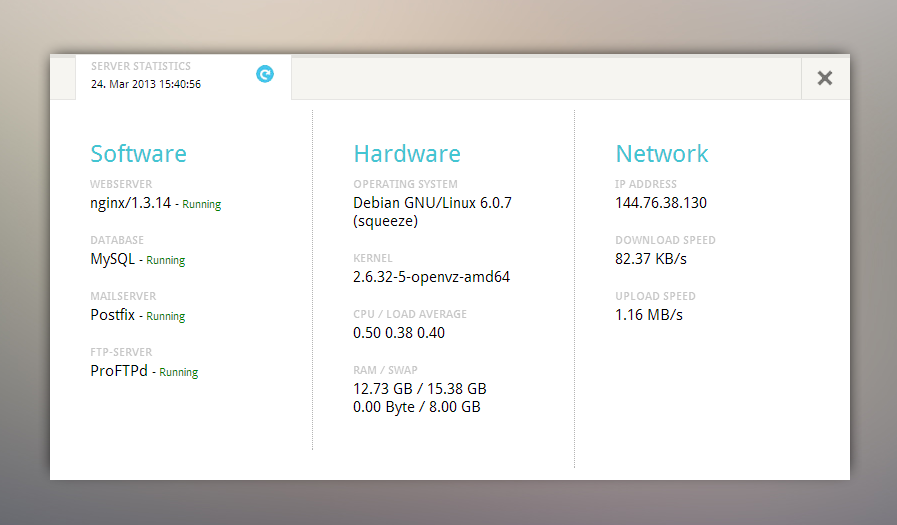
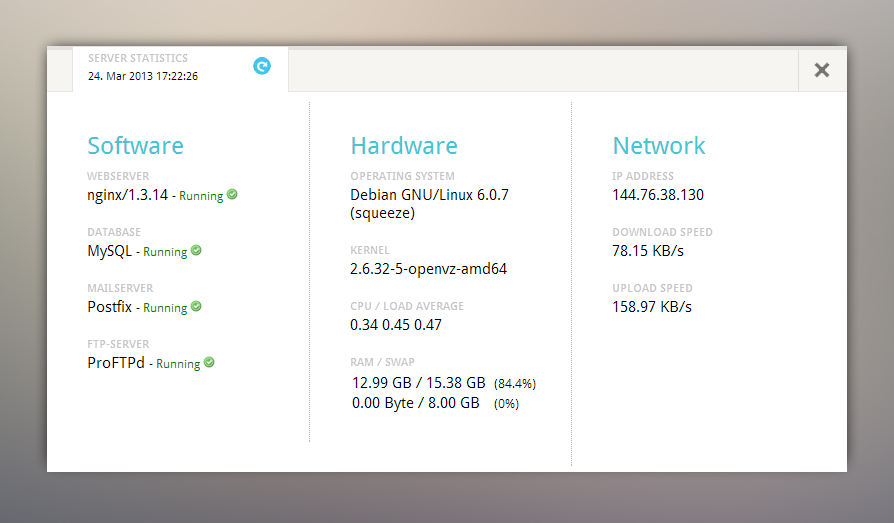
More functionality, small improvements
Added status icons, added percentage to RAM/SWAP usage, font is now
local to be available offline in the local network, updated screenshot,
small improvements

diff --git a/index.html b/index.html
@@ -4,7 +4,6 @@
     	<title>Server Dashboard</title>
         <meta name="robots" content="all">
         <meta http-equiv="Content-Type" content="text/html; charset=utf-8" >
-        <link rel="stylesheet" href="http://fonts.googleapis.com/css?family=Droid+Sans:400,700" type="text/css" />
         <link rel="stylesheet" href="assets/style.css" type="text/css" />
         <script type="text/javascript" src="assets/js/jquery-1.9.1.min.js"></script>
         <script type="text/javascript" src="assets/js/script.js"></script>
@@ -26,45 +25,81 @@
             	<div id="left">
                 	<h1>Software</h1>
 					<div class="head">Webserver</div>
-					<div class="text"><span id="SW_Web"></span></div>
+					<div class="text">
+						<span id="SW_Web"></span>
+					</div>
+
 					<div class="head">Database</div>
-					<div class="text"><span id="SW_DB"></span></div>
+					<div class="text">
+						<span id="SW_DB"></span>
+					</div>
+
 					<div class="head">Mailserver</div>
-					<div class="text"><span id="SW_MAIL"></span></div>
+					<div class="text">
+						<span id="SW_MAIL"></span>
+					</div>
+
 					<div class="head">FTP-Server</div>
-					<div class="text"><span id="SW_FTP"></span></div>
+					<div class="text">
+						<span id="SW_FTP"></span>
+					</div>
 	            </div>
+
                 <div id="middle">
                 	<h1>Hardware</h1>
 					<div class="head">Operating System</div>
 					<div class="text"><span id="HW_OS"></span></div>
+
 					<div class="head">Kernel</div>
 					<div class="text"><span id="HW_KERNEL"></span></div>
+
 					<div class="head">CPU / Load average</div>
 					<div class="text"><span id="HW_CPU"></span></div>
+
 					<div class="head">RAM / SWAP</div>
 					<div class="text">
 						<span id="HW_RAM_SWAP"></span>
-						<span id="HW_RAM">
-							<span id="HW_RAM_USED"></span>
-							<span id="HW_RAM_AVAIL"></span>
-						</span>
-						<br />
-						<span id="HW_SWAP">
-							<span id="HW_SWAP_USED"></span>
-							<span id="HW_SWAP_AVAIL"></span>
-						</span>
+						<table border="0" width="190px">
+						<tr>
+							<td>
+								<span id="HW_RAM">
+									<span id="HW_RAM_USED"></span>
+									<span id="HW_RAM_AVAIL"></span>
+								</span>
+							</td>
+							<td><span id="HW_RAM_PRNT" class="smallText"></span></td>
+						</tr>
+						<tr>
+							<td>
+								<span id="HW_SWAP">
+									<span id="HW_SWAP_USED"></span>
+									<span id="HW_SWAP_AVAIL"></span>
+								</span>
+							</td>
+							<td><span id="HW_SWAP_PRNT" class="smallText"></span></td>
+						</tr>
+						</table>
 					</div>
 	            </div>
+
                 <div id="right">
                 	<h1>Network</h1>
 					<div class="head">IP Address</div>
-					<div class="text"><span id="NET_IP"></span></div>
+					<div class="text">
+						<span id="NET_IP"></span>
+					</div>
+
 					<div class="head">Download Speed</div>
-					<div class="text"><span id="NET_DOWN"></span></div>
+					<div class="text">
+						<span id="NET_DOWN"></span>
+					</div>
+
 					<div class="head">Upload Speed</div>
-					<div class="text"><span id="NET_UP"></span></div>
+					<div class="text">
+						<span id="NET_UP"></span>
+					</div>
 	            </div>
+
                 <div class="clear"></div>
             </div>
         </div>

diff --git a/assets/style.css b/assets/style.css
@@ -1,3 +1,17 @@
+@font-face {
+  font-family: 'Droid Sans';
+  font-style: normal;
+  font-weight: 400;
+  src: local('Droid Sans'), local('DroidSans'), url(fonts/droidsans_v3_400.woff) format('woff');
+}
+
+@font-face {
+  font-family: 'Droid Sans';
+  font-style: normal;
+  font-weight: 700;
+  src: local('Droid Sans Bold'), local('DroidSans-Bold'), url(fonts/droidsans_v3_700.woff) format('woff');
+}
+
 * { margin:0px; padding:0px; }
 body { background:url(img/bg.jpg) bottom center fixed; font-family:'Droid Sans',sans-serif; }
 .clear { clear:both; }
@@ -5,7 +19,7 @@ body { background:url(img/bg.jpg) bottom center fixed; font-family:'Droid Sans',
 .container { width:800px; height:420px; background:#f6f5f1; position:fixed; top:50%; margin-top:-200px; left:50%; margin-left:-400px; box-shadow:0px 0px 24px -3px #000; }
 .container #close { background:url(img/close.png) no-repeat 15px 12px; height:41px; border-left:1px solid rgba(0,0,0,0.1); width:31px; position:absolute; right:17px; cursor:pointer; }
 .container #greyline { width:800px; background:#e3e2de; height:4px; }
-.container .head { text-transform:uppercase; opacity:0.22; font-weight:700; font-size:11px; padding-bottom:3px; }
+.container .head { text-transform:uppercase; opacity:0.23; font-weight:700; font-size:11px; padding-bottom:3px; background:#fff; background-color: rgba(255,255,255,0.22); }
 .container .text { font-size:15px; padding-bottom:22px; }
 .container .loading { opacity:0.50; font-size:14px; }
 .container li { margin-left:25px; list-style:none; float:left; border-left:1px solid #e6e5e3; border-right:1px solid #e6e5e3; height:40px; background:#fff; font-size:13px; padding-left:15px; margin-top:-4px; width:200px; padding-top:5px; position:relative; z-index:5; top:1px; }
@@ -14,6 +28,8 @@ body { background:url(img/bg.jpg) bottom center fixed; font-family:'Droid Sans',
 .container .content #left, .container .content #middle, .container .content #right { padding:30px; padding-left:40px; float:left; width:191.66px; border-right:1px dotted rgba(0,0,0,0.3); margin-top:10px; min-height:280px; }
 .container .content #right { border:0px; }
 .container .content h1 { color:#43c5d2; font-weight:normal; padding-bottom: 10px; }
+.container .content .statusImg { border:0; height:12px; width:12px; opacity:1;  }
+.container .content .smallText { font-size:12px;  }
 
 .footer { position:fixed; bottom:10px; right:10px; font-size:11px; }
 .footer a { color:#000; text-decoration:none; }

diff --git a/assets/js/script.js b/assets/js/script.js
@@ -9,7 +9,7 @@ function InitLoad() {
 
 function LoadingScreen() {
 	var fields = new Array("latestData", "SW_Web", "SW_DB", "SW_MAIL", "SW_FTP", "HW_OS", "HW_KERNEL", "HW_CPU", "HW_RAM_SWAP", "NET_IP", "NET_DOWN", "NET_UP");
-	var empty = new Array("HW_RAM_USED", "HW_RAM_AVAIL", "HW_SWAP_USED", "HW_SWAP_AVAIL");
+	var empty = new Array("HW_RAM_USED", "HW_RAM_AVAIL", "HW_RAM_PRNT", "HW_SWAP_USED", "HW_SWAP_AVAIL", "HW_SWAP_PRNT");
 	$.each(empty, function(index, value) {
 		$("#" + value).html('');
 	});
@@ -30,20 +30,24 @@ function LoadData() {
 					$("#HW_RAM_SWAP").html('');
 				 }else if(key == "HW_SWAP_USED") {
 					val = val + " / ";
+				 }else if(key == "HW_RAM_PRNT") {
+					val = "(" + val + "%)";
+				 }else if(key == "HW_SWAP_PRNT") {
+					val = "(" + val + "%)";
 				 }else if(key == "TIMESTAMP") {
 					$("#latestData").html(UnixTS(val));
 				}
 				if(val.toString().substr(-2) == "R0") {
-					val = val.replace('R0', '<span style="font-size:12px;">- <span style="color:red; font-size:11px;">Not running</span></span>');
+					val = val.replace('R0', '<span style="font-size:12px;">- <span style="color:red;" class="smallText">Not running</span> <img src="assets/img/error.png" class="statusImg"></span>');
 				 }else if(val.toString().substr(-2) == "R1") {
-					val = val.replace('R1', '<span style="font-size:12px;">- <span style="color:green; font-size:11px;">Running</span></span>');
+					val = val.replace('R1', '<span style="font-size:12px;">- <span style="color:green;" class="smallText">Running</span> <img src="assets/img/okay.png" class="statusImg"></span>');
 				}
 				$("#" + key).html(val);
 			});
 		}
 	});
 
-	loadSingleData("NetSpeedUp", "NET_UP");
+	loadSingleData("NetSpeedUp",   "NET_UP");
 	loadSingleData("NetSpeedDown", "NET_DOWN");
 }
 

diff --git a/assets/getStatus.php b/assets/getStatus.php
@@ -35,7 +35,6 @@ if((filemtime("cache_".$get.".txt") + $cachetime) > time() && $flag) {
 
 }else{
 	// Save memInfo output to variable
-	$memInfo = getMemInfo();
 	$time = time();
 
 	if($get == "NetSpeedUp") {
@@ -45,6 +44,8 @@ if((filemtime("cache_".$get.".txt") + $cachetime) > time() && $flag) {
 		$data["value"]      = getSpeed("rx");
 
 	} else if($get == "all") {
+
+		$memInfo = getMemInfo();
 
 		$data["SW_Web"]	       = $_SERVER["SERVER_SOFTWARE"]." ".CheckRunningProcess("nginx");
 		$data["SW_DB"]         = "MySQL ".CheckRunningProcess("mysqld");
@@ -57,8 +58,11 @@ if((filemtime("cache_".$get.".txt") + $cachetime) > time() && $flag) {
 
 		$data["HW_RAM_USED"]   = getSize($memInfo["MemTotal"] - $memInfo["MemFree"]);
 		$data["HW_RAM_AVAIL"]  = getSize($memInfo["MemTotal"]);
+		$data["HW_RAM_PRNT"]   = round(((100 * ($memInfo["MemTotal"] - $memInfo["MemFree"])) / $memInfo["MemTotal"]), 1);
+
 		$data["HW_SWAP_USED"]  = getSize($memInfo["SwapTotal"] - $memInfo["SwapFree"]);
 		$data["HW_SWAP_AVAIL"] = getSize($memInfo["SwapTotal"]);
+		$data["HW_SWAP_PRNT"]  = round(((100 * ($memInfo["SwapTotal"] - $memInfo["SwapFree"])) / $memInfo["SwapTotal"]), 1);
 
 		$data["NET_IP"]        = getIP();
 
